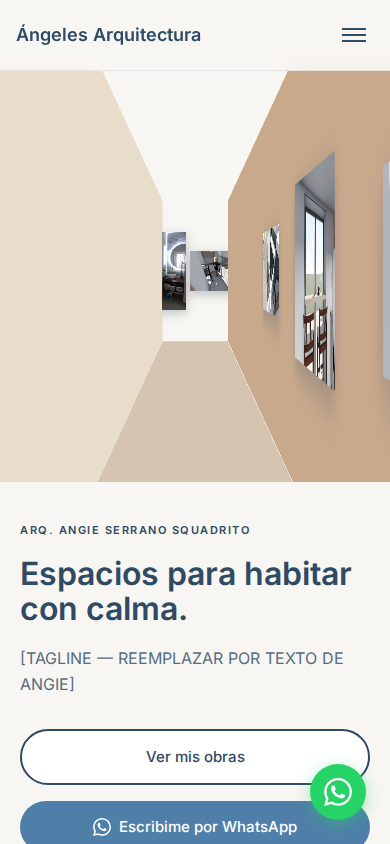
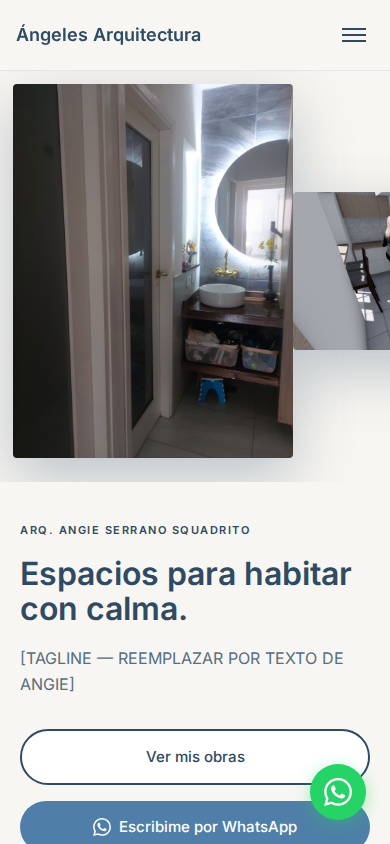
fix: mobile frontal slideshow with one large frame at a time
- Mobile: show ONE frontal frame filling ~75% viewport width (280px+)
- Flat layout, no perspective distortion on mobile
- Auto-advance every 4s + swipe/tap to next frame
- Test: frontal frame >= 280px at 390x844 with flat transform
- All 5 tests pass
- Desktop unchanged: 3D tilt effect preserved

diff --git a/test-hero-exhibition.spec.js b/test-hero-exhibition.spec.js
@@ -128,27 +128,29 @@ test.describe('Hero Exhibition Gallery', () => {
         }
     });
 
-    test('mobile frames should be clearly visible with largest frame >= 170px at 390x844', async ({ page }) => {
+    test('mobile should show frontal frame >= 280px with rotation < 15deg at 390x844', async ({ page }) => {
         await page.setViewportSize({ width: 390, height: 844 });
         await page.goto('http://localhost:8000');
         
-        // Wait for images to be visible
-        await page.waitForSelector('.hero-gallery-room__img', { state: 'visible', timeout: 5000 });
-        await page.waitForTimeout(1000);
+        // Wait for mobile slideshow to initialize
+        await page.waitForSelector('.mobile-active', { state: 'visible', timeout: 5000 });
+        await page.waitForTimeout(500);
         
-        // Get all visible image bounding boxes
-        const images = page.locator('.hero-gallery-room__img');
-        const imageCount = await images.count();
+        // Find the active (frontal) frame
+        const activeImage = page.locator('.mobile-active .hero-gallery-room__img').first();
+        await expect(activeImage).toBeVisible();
         
-        let maxWidth = 0;
-        for (let i = 0; i < imageCount; i++) {
-            const imageBox = await images.nth(i).boundingBox();
-            if (imageBox && imageBox.width > maxWidth) {
-                maxWidth = imageBox.width;
-            }
-        }
+        // Get the image bounding box
+        const imageBox = await activeImage.boundingBox();
+        expect(imageBox).not.toBeNull();
+        expect(imageBox.width).toBeGreaterThanOrEqual(280);
         
-        // Assert largest visible frame is at least 170px wide
-        expect(maxWidth).toBeGreaterThanOrEqual(170);
+        // Check rotation is nearly frontal (transform should be none or minimal)
+        const transform = await page.locator('.mobile-active').evaluate(el => 
+            window.getComputedStyle(el).transform
+        );
+        
+        // On mobile with flat layout, transform should be 'none' or identity matrix
+        expect(transform === 'none' || transform.includes('matrix(1, 0, 0, 1')).toBeTruthy();
     });
 });

diff --git a/hero-exhibition.js b/hero-exhibition.js
@@ -15,6 +15,13 @@
         rooms: [].slice.call(heroScroller.querySelectorAll('.hero-gallery-room'))
     };
 
+    // Mobile slideshow mode
+    const isMobile = window.innerWidth <= 768;
+    if (isMobile) {
+        initMobileSlideshow();
+        return;
+    }
+
     const initTransform = { 
         translateX: 0, 
         translateY: 0, 
@@ -160,6 +167,60 @@
             timeout = setTimeout(later, wait);
             if (callNow) func.apply(context, args);
         };
+    }
+
+    function initMobileSlideshow() {
+        const room = DOM.rooms[0];
+        if (!room) return;
+
+        const sides = [].slice.call(room.querySelectorAll('.hero-gallery-room__side'));
+        const imageSides = sides.filter(side => {
+            const imgs = side.querySelectorAll('.hero-gallery-room__img');
+            return imgs.length > 0;
+        });
+
+        if (imageSides.length === 0) return;
+
+        let currentIndex = 0;
+
+        function showSlide(index) {
+            imageSides.forEach((side, i) => {
+                if (i === index) {
+                    side.classList.add('mobile-active');
+                } else {
+                    side.classList.remove('mobile-active');
+                }
+            });
+        }
+
+        function nextSlide() {
+            currentIndex = (currentIndex + 1) % imageSides.length;
+            showSlide(currentIndex);
+        }
+
+        // Show first slide
+        showSlide(0);
+
+        // Auto-advance every 4 seconds
+        setInterval(nextSlide, 4000);
+
+        // Touch/swipe support
+        let touchStartX = 0;
+        let touchEndX = 0;
+
+        room.addEventListener('touchstart', function(e) {
+            touchStartX = e.changedTouches[0].screenX;
+        }, { passive: true });
+
+        room.addEventListener('touchend', function(e) {
+            touchEndX = e.changedTouches[0].screenX;
+            if (Math.abs(touchEndX - touchStartX) > 50) {
+                nextSlide();
+            }
+        }, { passive: true });
+
+        // Click to advance
+        room.addEventListener('click', nextSlide);
     }
 
     // Preload images then initialize

diff --git a/styles.css b/styles.css
@@ -1020,22 +1020,54 @@ section {
     .hero-gallery-container {
         position: relative;
         height: 50vh;
-        perspective: 700px;
+        perspective: none;
+        overflow: hidden;
     }
     
     .hero-gallery-scroller {
-        transform: translateX(0) scale(2.5) translateZ(250px);
+        transform: none;
+        height: 100%;
+        display: flex;
+        align-items: center;
+        justify-content: center;
+    }
+    
+    .hero-gallery-room {
+        position: relative;
+        width: 100%;
+        height: 100%;
+        display: flex;
+        align-items: center;
+        justify-content: center;
+        transform-style: flat;
+    }
+    
+    .hero-gallery-room__side {
+        position: absolute;
+        width: 100%;
+        height: 100%;
+        display: flex;
+        align-items: center;
+        justify-content: center;
+        opacity: 0;
+        transition: opacity 0.5s ease;
+        transform: none;
+    }
+    
+    .hero-gallery-room__side.mobile-active {
+        opacity: 1;
+        z-index: 1;
     }
     
     .hero-gallery-room__img {
-        max-width: 95vw;
-        max-height: 45vh;
-        margin: 0 3%;
-    }
-    
-    .hero-gallery-room__side--back .hero-gallery-room__img {
-        max-width: 110vw;
-        max-height: 55vh;
+        width: auto;
+        height: auto;
+        max-width: 85vw;
+        max-height: 40vh;
+        min-width: 280px;
+        margin: 0;
+        transform: none;
+        object-fit: contain;
     }
     
     .hero-content {
